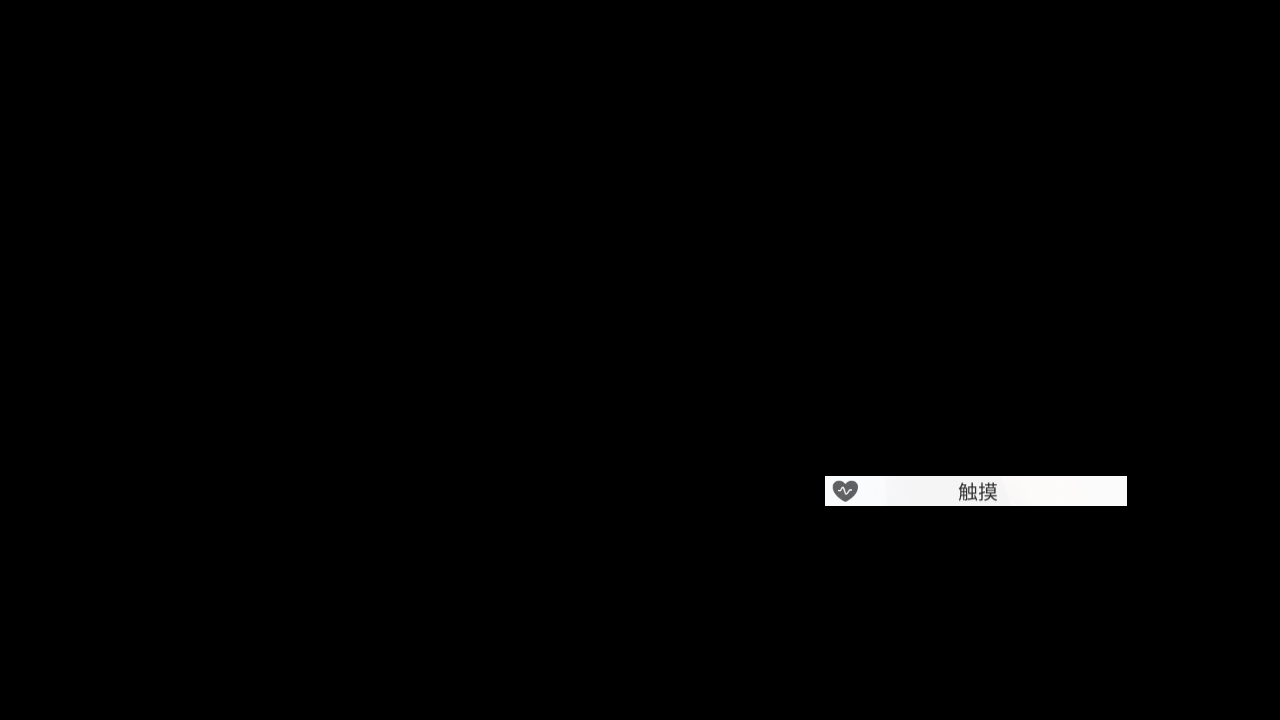
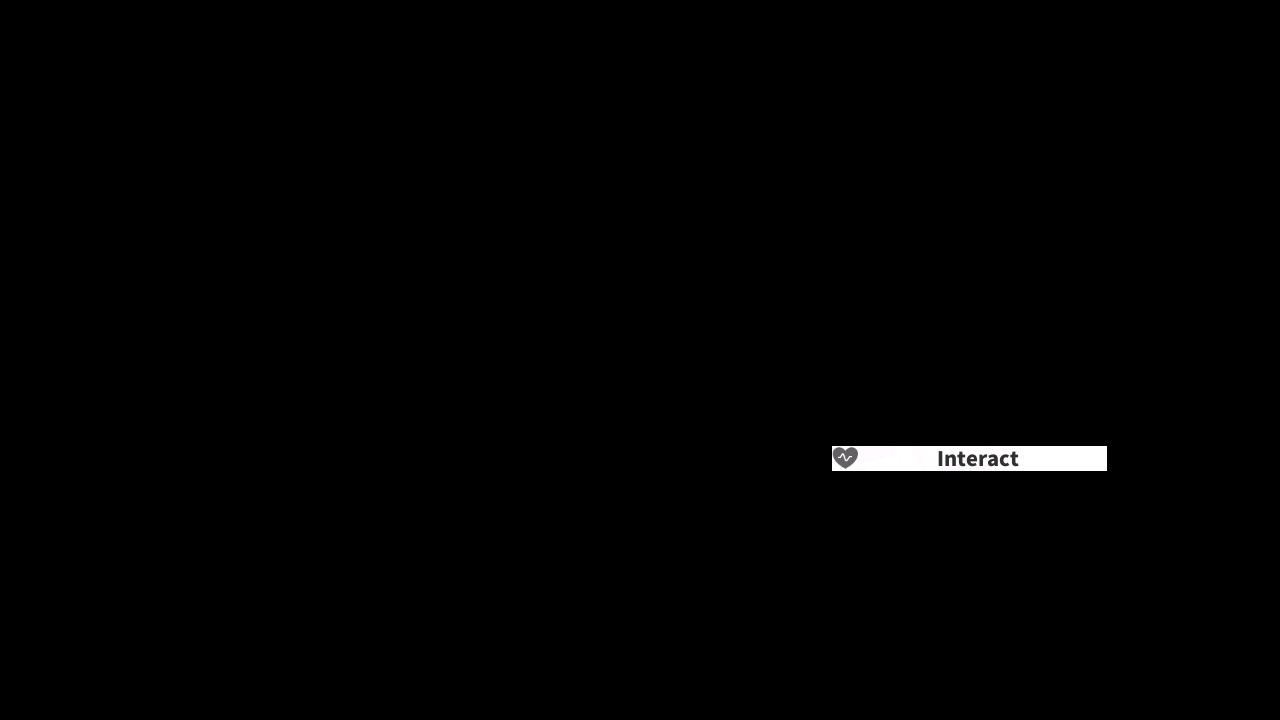
Fix: [CN] PRIVATE_QUARTERS_INTERACT button (#4964)

Changed region(s): [[0.625, 0.6111, 0.9062, 0.7028]]

diff --git a/module/ui/assets.py b/module/ui/assets.py
@@ -70,7 +70,7 @@ MUNITIONS_CHECK = Button(area={'cn': (32, 621, 86, 647), 'en': (25, 622, 85, 644
 OS_CHECK = Button(area={'cn': (613, 17, 627, 34), 'en': (613, 17, 627, 34), 'jp': (613, 17, 627, 34), 'tw': (613, 17, 627, 34)}, color={'cn': (58, 117, 146), 'en': (58, 117, 146), 'jp': (58, 117, 146), 'tw': (58, 117, 146)}, button={'cn': (613, 17, 627, 34), 'en': (613, 17, 627, 34), 'jp': (613, 17, 627, 34), 'tw': (613, 17, 627, 34)}, file={'cn': './assets/cn/ui/OS_CHECK.png', 'en': './assets/en/ui/OS_CHECK.png', 'jp': './assets/jp/ui/OS_CHECK.png', 'tw': './assets/tw/ui/OS_CHECK.png'})
 PLAYER_CHECK = Button(area={'cn': (28, 668, 139, 688), 'en': (11, 649, 157, 705), 'jp': (26, 668, 139, 689), 'tw': (28, 668, 139, 688)}, color={'cn': (237, 204, 127), 'en': (197, 156, 97), 'jp': (237, 205, 128), 'tw': (237, 204, 127)}, button={'cn': (28, 668, 139, 688), 'en': (11, 649, 157, 705), 'jp': (26, 668, 139, 689), 'tw': (28, 668, 139, 688)}, file={'cn': './assets/cn/ui/PLAYER_CHECK.png', 'en': './assets/en/ui/PLAYER_CHECK.png', 'jp': './assets/jp/ui/PLAYER_CHECK.png', 'tw': './assets/tw/ui/PLAYER_CHECK.png'})
 PQ_GOTO_MAIN = Button(area={'cn': (1107, 19, 1143, 51), 'en': (1107, 19, 1143, 51), 'jp': (1107, 19, 1143, 51), 'tw': (1107, 19, 1143, 51)}, color={'cn': (199, 199, 199), 'en': (199, 199, 199), 'jp': (199, 199, 199), 'tw': (199, 199, 199)}, button={'cn': (1107, 19, 1143, 51), 'en': (1107, 19, 1143, 51), 'jp': (1107, 19, 1143, 51), 'tw': (1107, 19, 1143, 51)}, file={'cn': './assets/cn/ui/PQ_GOTO_MAIN.png', 'en': './assets/cn/ui/PQ_GOTO_MAIN.png', 'jp': './assets/cn/ui/PQ_GOTO_MAIN.png', 'tw': './assets/cn/ui/PQ_GOTO_MAIN.png'})
-PRIVATE_QUARTERS_CHECK = Button(area={'cn': (123, 18, 218, 47), 'en': (130, 25, 278, 41), 'jp': (130, 25, 278, 41), 'tw': (130, 25, 278, 41)}, color={'cn': (106, 109, 113), 'en': (149, 153, 159), 'jp': (149, 153, 159), 'tw': (149, 153, 159)}, button={'cn': (123, 18, 218, 47), 'en': (130, 25, 278, 41), 'jp': (130, 25, 278, 41), 'tw': (130, 25, 278, 41)}, file={'cn': './assets/cn/ui/PRIVATE_QUARTERS_CHECK.png', 'en': './assets/en/ui/PRIVATE_QUARTERS_CHECK.png', 'jp': './assets/jp/ui/PRIVATE_QUARTERS_CHECK.png', 'tw': './assets/tw/ui/PRIVATE_QUARTERS_CHECK.png'})
+PRIVATE_QUARTERS_CHECK = Button(area={'cn': (123, 18, 218, 47), 'en': (130, 25, 278, 41), 'jp': (128, 21, 216, 45), 'tw': (130, 25, 278, 41)}, color={'cn': (106, 109, 113), 'en': (149, 153, 159), 'jp': (122, 126, 130), 'tw': (149, 153, 159)}, button={'cn': (123, 18, 218, 47), 'en': (130, 25, 278, 41), 'jp': (128, 21, 216, 45), 'tw': (130, 25, 278, 41)}, file={'cn': './assets/cn/ui/PRIVATE_QUARTERS_CHECK.png', 'en': './assets/en/ui/PRIVATE_QUARTERS_CHECK.png', 'jp': './assets/jp/ui/PRIVATE_QUARTERS_CHECK.png', 'tw': './assets/tw/ui/PRIVATE_QUARTERS_CHECK.png'})
 RAID_CHECK = Button(area={'cn': (107, 13, 216, 38), 'en': (116, 18, 174, 35), 'jp': (107, 13, 217, 40), 'tw': (111, 9, 228, 42)}, color={'cn': (129, 131, 129), 'en': (133, 118, 117), 'jp': (127, 129, 127), 'tw': (132, 154, 140)}, button={'cn': (107, 13, 216, 38), 'en': (116, 18, 174, 35), 'jp': (107, 13, 217, 40), 'tw': (111, 9, 228, 42)}, file={'cn': './assets/cn/ui/RAID_CHECK.png', 'en': './assets/en/ui/RAID_CHECK.png', 'jp': './assets/jp/ui/RAID_CHECK.png', 'tw': './assets/tw/ui/RAID_CHECK.png'})
 RESEARCH_CHECK = Button(area={'cn': (118, 15, 170, 39), 'en': (119, 14, 259, 36), 'jp': (117, 14, 171, 40), 'tw': (117, 13, 172, 40)}, color={'cn': (165, 179, 215), 'en': (118, 133, 174), 'jp': (135, 154, 195), 'tw': (148, 165, 205)}, button={'cn': (118, 15, 170, 39), 'en': (119, 14, 259, 36), 'jp': (117, 14, 171, 40), 'tw': (117, 13, 172, 40)}, file={'cn': './assets/cn/ui/RESEARCH_CHECK.png', 'en': './assets/en/ui/RESEARCH_CHECK.png', 'jp': './assets/jp/ui/RESEARCH_CHECK.png', 'tw': './assets/tw/ui/RESEARCH_CHECK.png'})
 RESHMENU_CHECK = Button(area={'cn': (121, 15, 174, 39), 'en': (118, 14, 279, 35), 'jp': (116, 13, 174, 42), 'tw': (121, 14, 175, 40)}, color={'cn': (156, 171, 209), 'en': (100, 113, 152), 'jp': (136, 149, 186), 'tw': (147, 162, 201)}, button={'cn': (121, 15, 174, 39), 'en': (118, 14, 279, 35), 'jp': (116, 13, 174, 42), 'tw': (121, 14, 175, 40)}, file={'cn': './assets/cn/ui/RESHMENU_CHECK.png', 'en': './assets/en/ui/RESHMENU_CHECK.png', 'jp': './assets/jp/ui/RESHMENU_CHECK.png', 'tw': './assets/tw/ui/RESHMENU_CHECK.png'})

diff --git a/module/private_quarters/assets.py b/module/private_quarters/assets.py
@@ -5,7 +5,7 @@ from module.base.template import Template
 # Don't modify it manually.
 
 PRIVATE_QUARTERS_DAILY_COUNT = Button(area={'cn': (107, 129, 154, 154), 'en': (135, 125, 177, 157), 'jp': (132, 129, 171, 151), 'tw': (135, 125, 177, 157)}, color={'cn': (99, 102, 106), 'en': (105, 109, 114), 'jp': (110, 113, 117), 'tw': (105, 109, 114)}, button={'cn': (107, 129, 154, 154), 'en': (135, 125, 177, 157), 'jp': (132, 129, 171, 151), 'tw': (135, 125, 177, 157)}, file={'cn': './assets/cn/private_quarters/PRIVATE_QUARTERS_DAILY_COUNT.png', 'en': './assets/en/private_quarters/PRIVATE_QUARTERS_DAILY_COUNT.png', 'jp': './assets/jp/private_quarters/PRIVATE_QUARTERS_DAILY_COUNT.png', 'tw': './assets/tw/private_quarters/PRIVATE_QUARTERS_DAILY_COUNT.png'})
-PRIVATE_QUARTERS_INTERACT = Button(area={'cn': (832, 446, 857, 471), 'en': (832, 446, 857, 471), 'jp': (832, 446, 857, 471), 'tw': (832, 446, 857, 471)}, color={'cn': (167, 165, 167), 'en': (167, 165, 167), 'jp': (167, 165, 167), 'tw': (167, 165, 167)}, button={'cn': (825, 476, 1127, 506), 'en': (832, 446, 1107, 471), 'jp': (832, 446, 1107, 471), 'tw': (832, 446, 1107, 471)}, file={'cn': './assets/cn/private_quarters/PRIVATE_QUARTERS_INTERACT.png', 'en': './assets/en/private_quarters/PRIVATE_QUARTERS_INTERACT.png', 'jp': './assets/jp/private_quarters/PRIVATE_QUARTERS_INTERACT.png', 'tw': './assets/tw/private_quarters/PRIVATE_QUARTERS_INTERACT.png'})
+PRIVATE_QUARTERS_INTERACT = Button(area={'cn': (832, 446, 857, 471), 'en': (832, 446, 857, 471), 'jp': (832, 446, 857, 471), 'tw': (832, 446, 857, 471)}, color={'cn': (167, 165, 167), 'en': (167, 165, 167), 'jp': (167, 165, 167), 'tw': (167, 165, 167)}, button={'cn': (832, 446, 1107, 471), 'en': (832, 446, 1107, 471), 'jp': (832, 446, 1107, 471), 'tw': (832, 446, 1107, 471)}, file={'cn': './assets/cn/private_quarters/PRIVATE_QUARTERS_INTERACT.png', 'en': './assets/en/private_quarters/PRIVATE_QUARTERS_INTERACT.png', 'jp': './assets/jp/private_quarters/PRIVATE_QUARTERS_INTERACT.png', 'tw': './assets/tw/private_quarters/PRIVATE_QUARTERS_INTERACT.png'})
 PRIVATE_QUARTERS_INTERACT_CHECK = Button(area={'cn': (1223, 653, 1245, 675), 'en': (1223, 653, 1245, 675), 'jp': (1223, 653, 1245, 675), 'tw': (1223, 653, 1245, 675)}, color={'cn': (196, 192, 187), 'en': (196, 192, 187), 'jp': (196, 192, 187), 'tw': (196, 192, 187)}, button={'cn': (1223, 653, 1245, 675), 'en': (1223, 653, 1245, 675), 'jp': (1223, 653, 1245, 675), 'tw': (1223, 653, 1245, 675)}, file={'cn': './assets/cn/private_quarters/PRIVATE_QUARTERS_INTERACT_CHECK.png', 'en': './assets/en/private_quarters/PRIVATE_QUARTERS_INTERACT_CHECK.png', 'jp': './assets/jp/private_quarters/PRIVATE_QUARTERS_INTERACT_CHECK.png', 'tw': './assets/tw/private_quarters/PRIVATE_QUARTERS_INTERACT_CHECK.png'})
 PRIVATE_QUARTERS_LOADING_CHECK = Button(area={'cn': (582, 376, 702, 391), 'en': (582, 376, 702, 391), 'jp': (582, 376, 702, 391), 'tw': (582, 376, 702, 391)}, color={'cn': (200, 232, 255), 'en': (200, 232, 255), 'jp': (200, 232, 255), 'tw': (200, 232, 255)}, button={'cn': (582, 376, 702, 391), 'en': (582, 376, 702, 391), 'jp': (582, 376, 702, 391), 'tw': (582, 376, 702, 391)}, file={'cn': './assets/cn/private_quarters/PRIVATE_QUARTERS_LOADING_CHECK.png', 'en': './assets/en/private_quarters/PRIVATE_QUARTERS_LOADING_CHECK.png', 'jp': './assets/jp/private_quarters/PRIVATE_QUARTERS_LOADING_CHECK.png', 'tw': './assets/tw/private_quarters/PRIVATE_QUARTERS_LOADING_CHECK.png'})
 PRIVATE_QUARTERS_PAGE_LEFT = Button(area={'cn': (20, 329, 40, 359), 'en': (20, 329, 40, 359), 'jp': (20, 329, 40, 359), 'tw': (20, 329, 40, 359)}, color={'cn': (231, 234, 238), 'en': (231, 234, 238), 'jp': (231, 234, 238), 'tw': (231, 234, 238)}, button={'cn': (20, 329, 40, 359), 'en': (20, 329, 40, 359), 'jp': (20, 329, 40, 359), 'tw': (20, 329, 40, 359)}, file={'cn': './assets/cn/private_quarters/PRIVATE_QUARTERS_PAGE_LEFT.png', 'en': './assets/en/private_quarters/PRIVATE_QUARTERS_PAGE_LEFT.png', 'jp': './assets/jp/private_quarters/PRIVATE_QUARTERS_PAGE_LEFT.png', 'tw': './assets/tw/private_quarters/PRIVATE_QUARTERS_PAGE_LEFT.png'})
